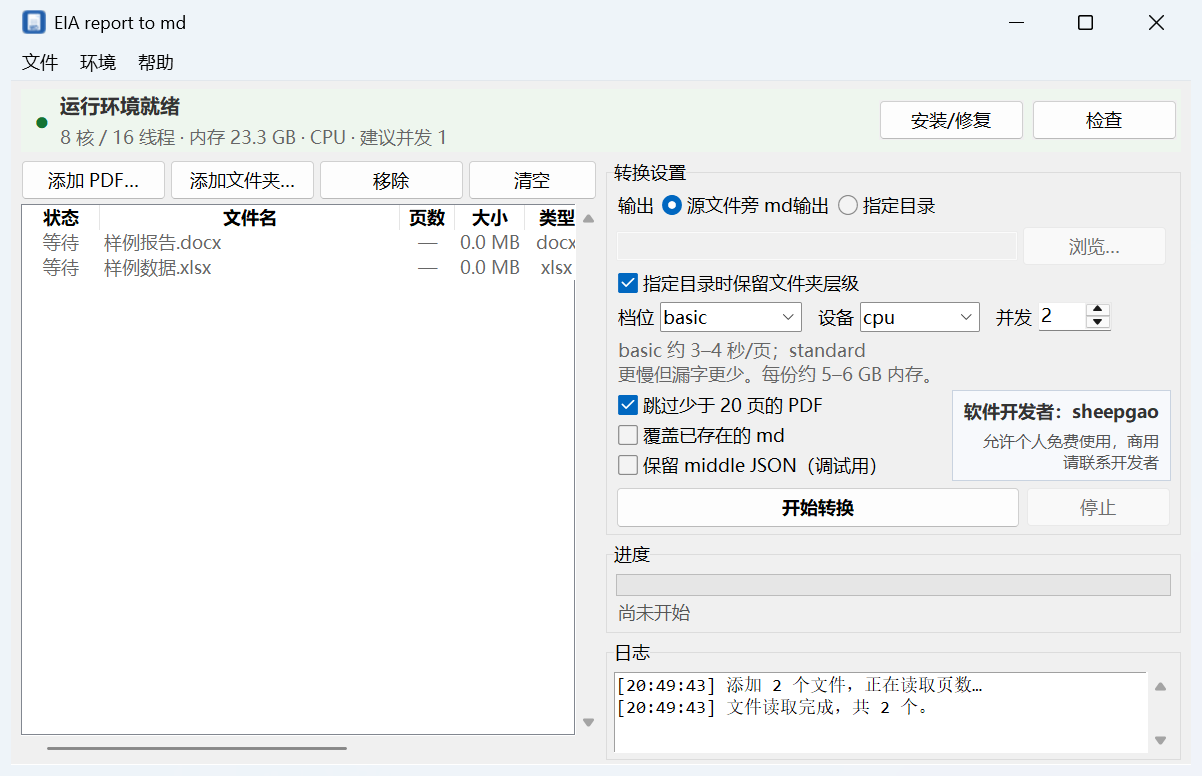
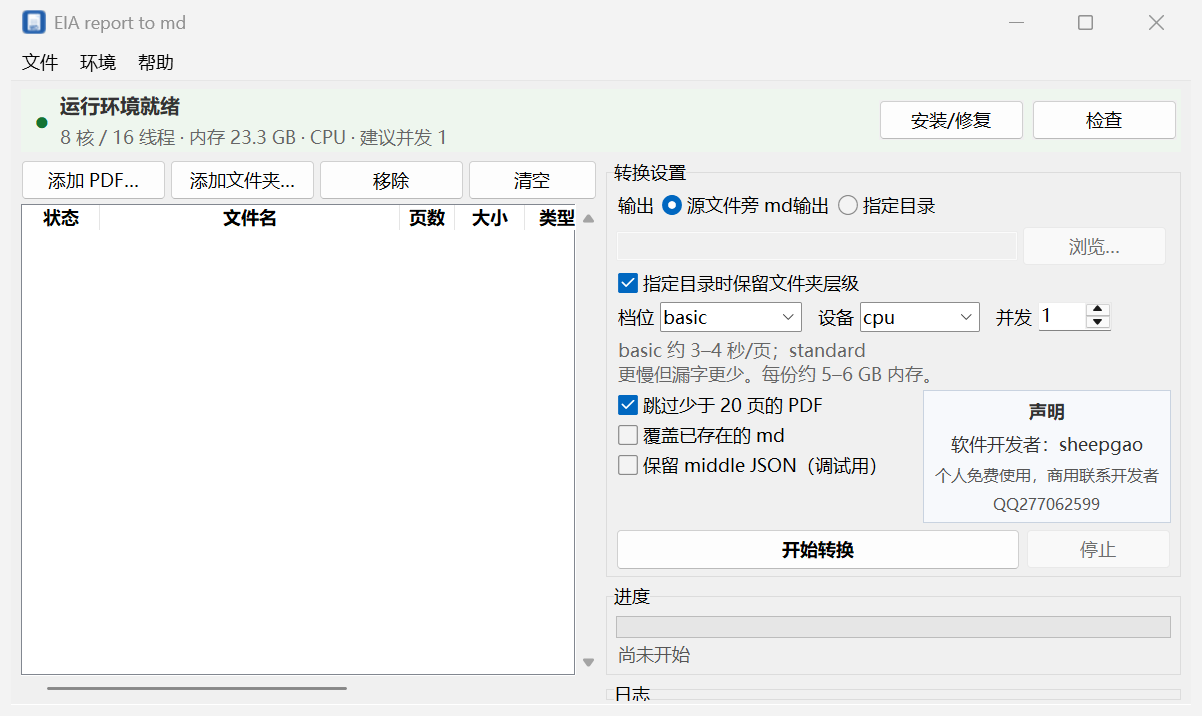
fix: 声明改为居中四行并补充 QQ 联系方式

diff --git a/gui/app.py b/gui/app.py
@@ -371,13 +371,19 @@ class App(tk.Tk):
         decl = tk.Frame(opts, bg="#f7f9fc", highlightbackground="#c9d3e0",
                         highlightthickness=1)
         decl.pack(side="right", anchor="n", padx=(14, 0))
+        tk.Label(decl, text="声明", bg="#f7f9fc", fg="#333",
+                 font=("Microsoft YaHei UI", 9, "bold"),
+                 anchor="center").pack(fill="x", padx=8, pady=(5, 2))
         tk.Label(decl, text="软件开发者：sheepgao", bg="#f7f9fc",
-                 fg="#333", font=("Microsoft YaHei UI", 9, "bold"),
-                 anchor="e").pack(anchor="e", padx=8, pady=(5, 0))
-        tk.Label(decl, text="允许个人免费使用，商用请联系开发者",
+                 fg="#333", font=("Microsoft YaHei UI", 9),
+                 anchor="center").pack(fill="x", padx=8)
+        tk.Label(decl, text="个人免费使用，商用联系开发者",
                  bg="#f7f9fc", fg="#555", font=("Microsoft YaHei UI", 8),
-                 anchor="e", justify="right", wraplength=190).pack(
-            anchor="e", padx=8, pady=(0, 5))
+                 anchor="center", justify="center", wraplength=300).pack(
+            fill="x", padx=8, pady=(2, 0))
+        tk.Label(decl, text="QQ277062599", bg="#f7f9fc", fg="#555",
+                 font=("Microsoft YaHei UI", 8),
+                 anchor="center").pack(fill="x", padx=8, pady=(2, 5))
 
         btns = ttk.Frame(st)
         btns.pack(fill="x", padx=8, pady=6)

diff --git a/README.md b/README.md
@@ -11,7 +11,8 @@
 ## 使用声明
 
 - **软件开发者：sheepgao**
-- **允许个人免费使用，商用请联系开发者**
+- **个人免费使用，商用联系开发者**
+- **QQ：277062599**
 
 商用授权请通过 GitHub 仓库联系作者：<https://github.com/sheep-gy>。
 本软件采用 [PolyForm Noncommercial 1.0.0](LICENSE)，个人/非商业用途免费；商用需另行授权。
@@ -341,4 +342,4 @@ pdf2md-eia/
 Required Notice: Copyright 2026 sheepgao
 
 软件开发者：**sheepgao**  
-商用授权请联系：<https://github.com/sheep-gy>
+商用授权请联系：QQ **277062599** 或 <https://github.com/sheep-gy>

diff --git a/AI调用说明.md b/AI调用说明.md
@@ -228,5 +228,6 @@ venv 脚本记录绝对路径，换路径可能失效；不要只拷 exe。
 ## 使用声明
 
 - 软件开发者：**sheepgao**
-- 允许个人免费使用，**商用请联系开发者**
+- 个人免费使用，**商用联系开发者**
+- QQ：**277062599**
 - 许可证：PolyForm Noncommercial 1.0.0；Required Notice: Copyright 2026 sheepgao
